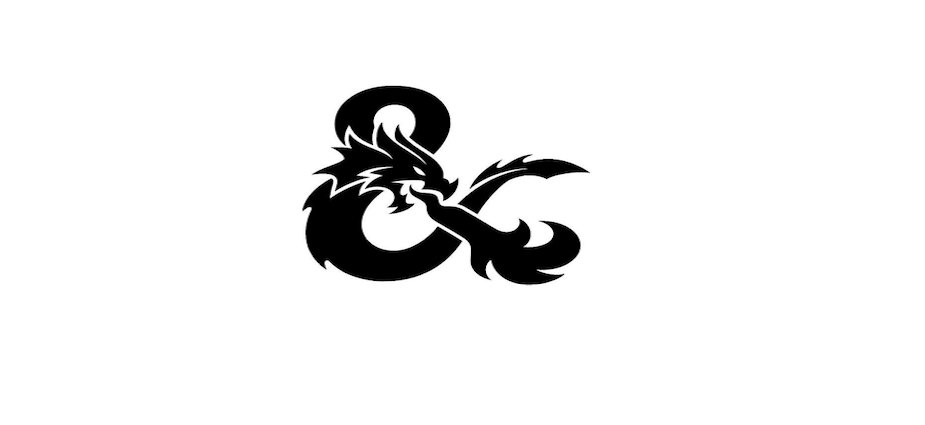
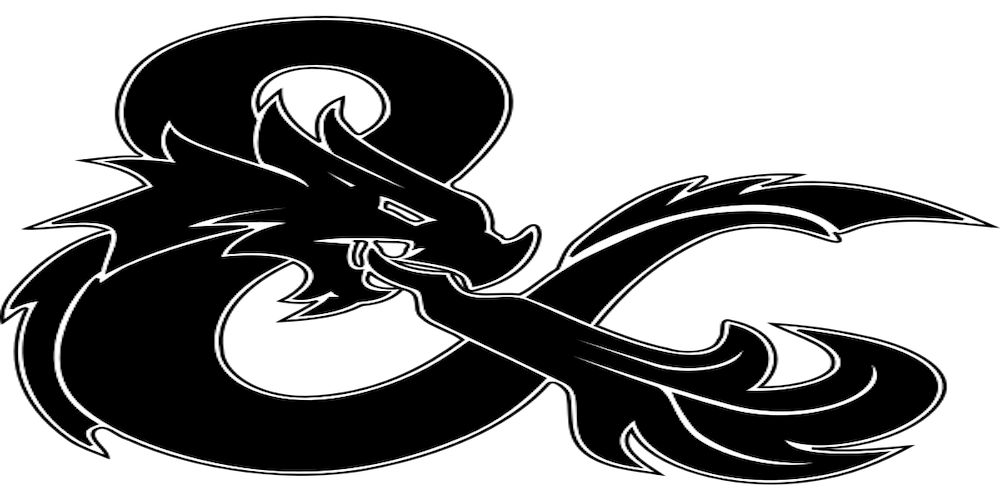
content updates

diff --git a/src/styles/components.scss b/src/styles/components.scss
@@ -87,6 +87,13 @@
 .content {
   @apply prose max-w-none prose-headings:font-bold prose-h1:mb-4 prose-h1:text-h1-sm prose-h2:mb-4 prose-h2:mt-4 prose-h2:text-h2-sm prose-h3:mt-4 prose-h3:text-h3-sm prose-h4:mt-4 prose-h5:mb-4 prose-h6:mb-6 prose-blockquote:rounded-lg prose-blockquote:border-primary prose-blockquote:bg-theme-light prose-blockquote:px-7 prose-blockquote:py-3 prose-blockquote:text-lg prose-blockquote:leading-8 prose-pre:px-6 prose-pre:py-5 md:prose-h1:text-h1 md:prose-h2:text-h2 md:prose-h3:text-h3;
 }
+// undo autoquotations on blockquotes!
+.content :where(blockquote p:first-of-type):not(:where([class~="not-prose"] *)):before {
+  content: "";
+}
+.content :where(blockquote p:last-of-type):not(:where([class~="not-prose"] *)):after {
+  content: "";
+}
 
 // footer
 footer p a {

diff --git a/src/content/posts/Hic_Sunt_Dracones.md b/src/content/posts/Hic_Sunt_Dracones.md
@@ -1,8 +1,8 @@
 ---
 title: "🀄 Hic Sunt Dracones ⿓ 🐉"
 description: "This is a ттRPGs, particularly Dungeons&Dragons, focused post…"
-date: 2023-04-22T00:00:00-05:00
-image: "/images/posts/DampD.jpg"
+date: 1974-01-26T00:00:00-06:00
+image: "/images/posts/DampD.png"
 categories: ["Roleplaying-Games"]
 authors: ["B.F. Griffith"]
 tags: ["ттRPGs", "Dungeons＆Dragons"]

diff --git a/src/content/posts/Historia.md b/src/content/posts/Historia.md
@@ -2,7 +2,7 @@
 title: "Historia est vitæ magistra…"
 description: "This is a historical post."
 image: "/images/posts/Friedrich_Nietzsche.jpg"
-date: 2021-02-03T00:00:00-05:00
+date: 1900-08-25T00:00:00+01:00
 draft: false
 authors: ["B.F. Griffith"]
 tags: ["Historiography", "Education"]
